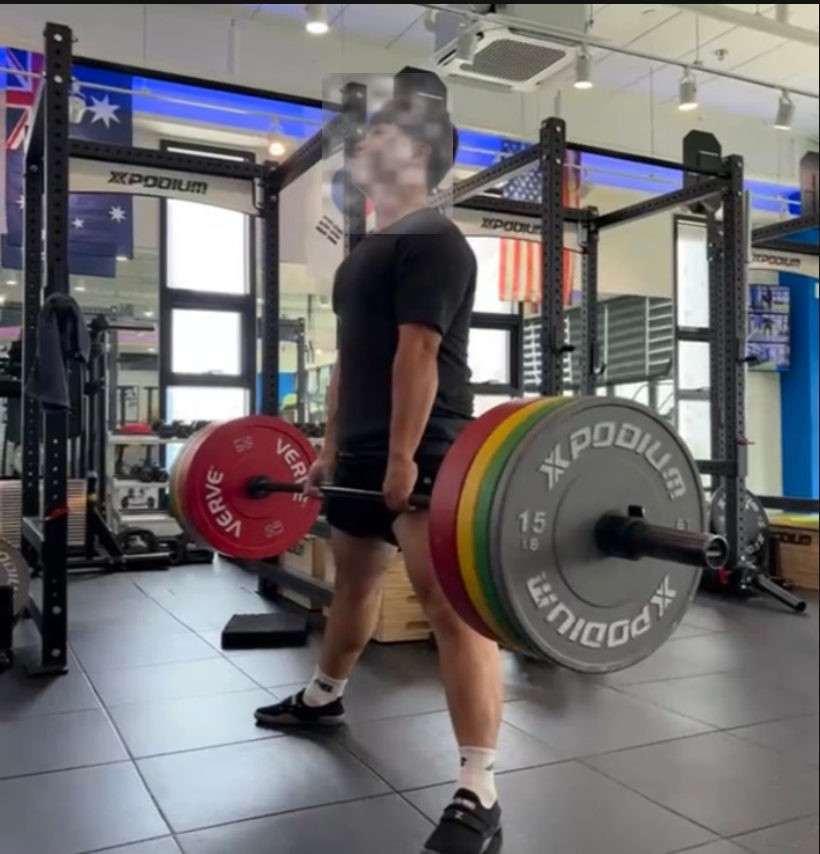
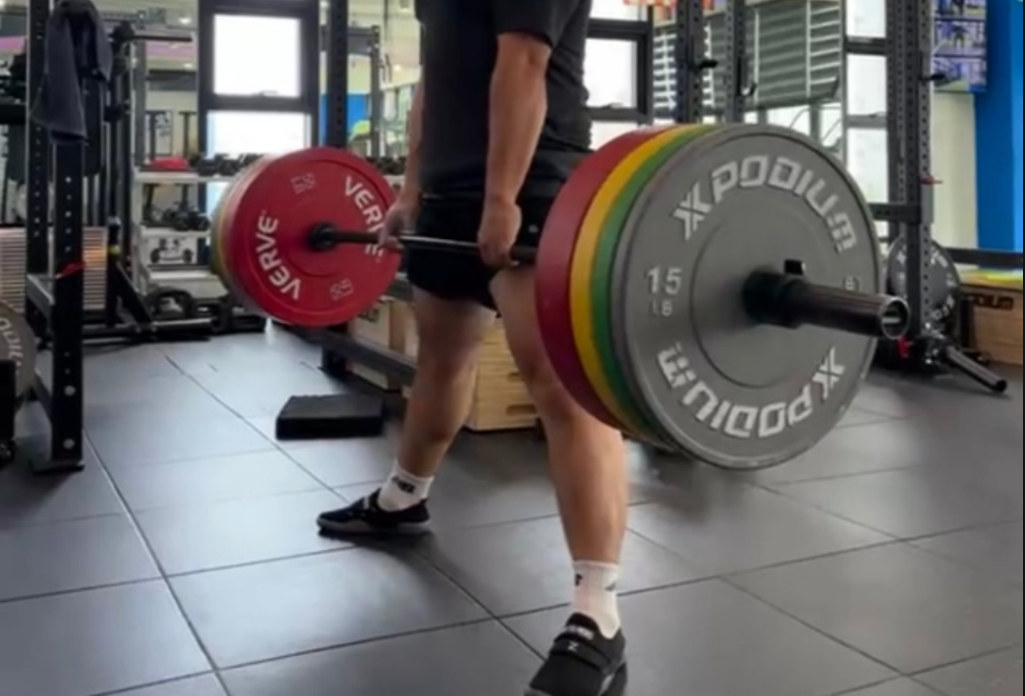
Crop member photos above face, drop same-member claim and athlete report

diff --git a/index.html b/index.html
@@ -47,7 +47,7 @@
   .sticky-head { position:sticky; top:132px; }
   .case-card { display:grid; grid-template-columns:1fr 0.72fr; gap:36px; align-items:center; }
   .m-card { display:grid; grid-template-columns:1fr 1.05fr; gap:34px; align-items:center; }
-  .ba-grid { display:grid; grid-template-columns:1fr 1fr 1.2fr; gap:16px; }
+  .ba-grid { display:grid; grid-template-columns:1fr 1fr; gap:20px; }
   .shot { width:100%; display:block; border-radius:10px; border:1px solid #2a2a2a; }
   @media (max-width: 860px) {
     .grid-sticky { grid-template-columns:1fr !important; gap:36px !important; }
@@ -277,7 +277,7 @@
     <div class="feat-card" data-reveal style="max-width:1320px;margin:56px auto 0;background:#161616;border:1px solid #ffffff;border-radius:18px;padding:40px 42px">
       <div style="font-size:12px;font-weight:700;color:#d4d4d4;letter-spacing:0.06em;margin-bottom:12px">FEATURED · BEFORE / AFTER</div>
       <h3 style="font-family:'Inter',sans-serif;font-weight:800;letter-spacing:-0.025em;font-size:clamp(22px,2.6vw,34px);color:#ffffff;margin:0 0 8px;line-height:1.25">스모데드리프트 138kg → 200kg</h3>
-      <p style="font-size:14.5px;color:#a3a3a3;line-height:1.7;margin:0 0 28px">5월 31일 → 7월 22일 · 같은 회원의 실제 기록입니다.</p>
+      <p style="font-size:14.5px;color:#a3a3a3;line-height:1.7;margin:0 0 28px">5월 31일 → 7월 22일</p>
       <div class="ba-grid">
         <figure style="margin:0">
           <img class="shot" src="assets/member-before.jpg" alt="코칭 시작 시점의 데드리프트 자세" loading="lazy">
@@ -286,10 +286,6 @@
         <figure style="margin:0">
           <img class="shot" src="assets/member-after.jpg" alt="코칭 이후의 데드리프트 자세" loading="lazy">
           <figcaption style="font-size:12.5px;color:#737373;margin-top:12px;text-align:center">AFTER · 7월 22일 · 200kg</figcaption>
-        </figure>
-        <figure style="margin:0">
-          <img class="shot" src="assets/data-athlete.png" alt="주간 톤수와 e1RM 추이가 정리된 선수 리포트 화면" loading="lazy">
-          <figcaption style="font-size:12.5px;color:#737373;margin-top:12px;text-align:center">같은 기간의 훈련 데이터</figcaption>
         </figure>
       </div>
     </div>
